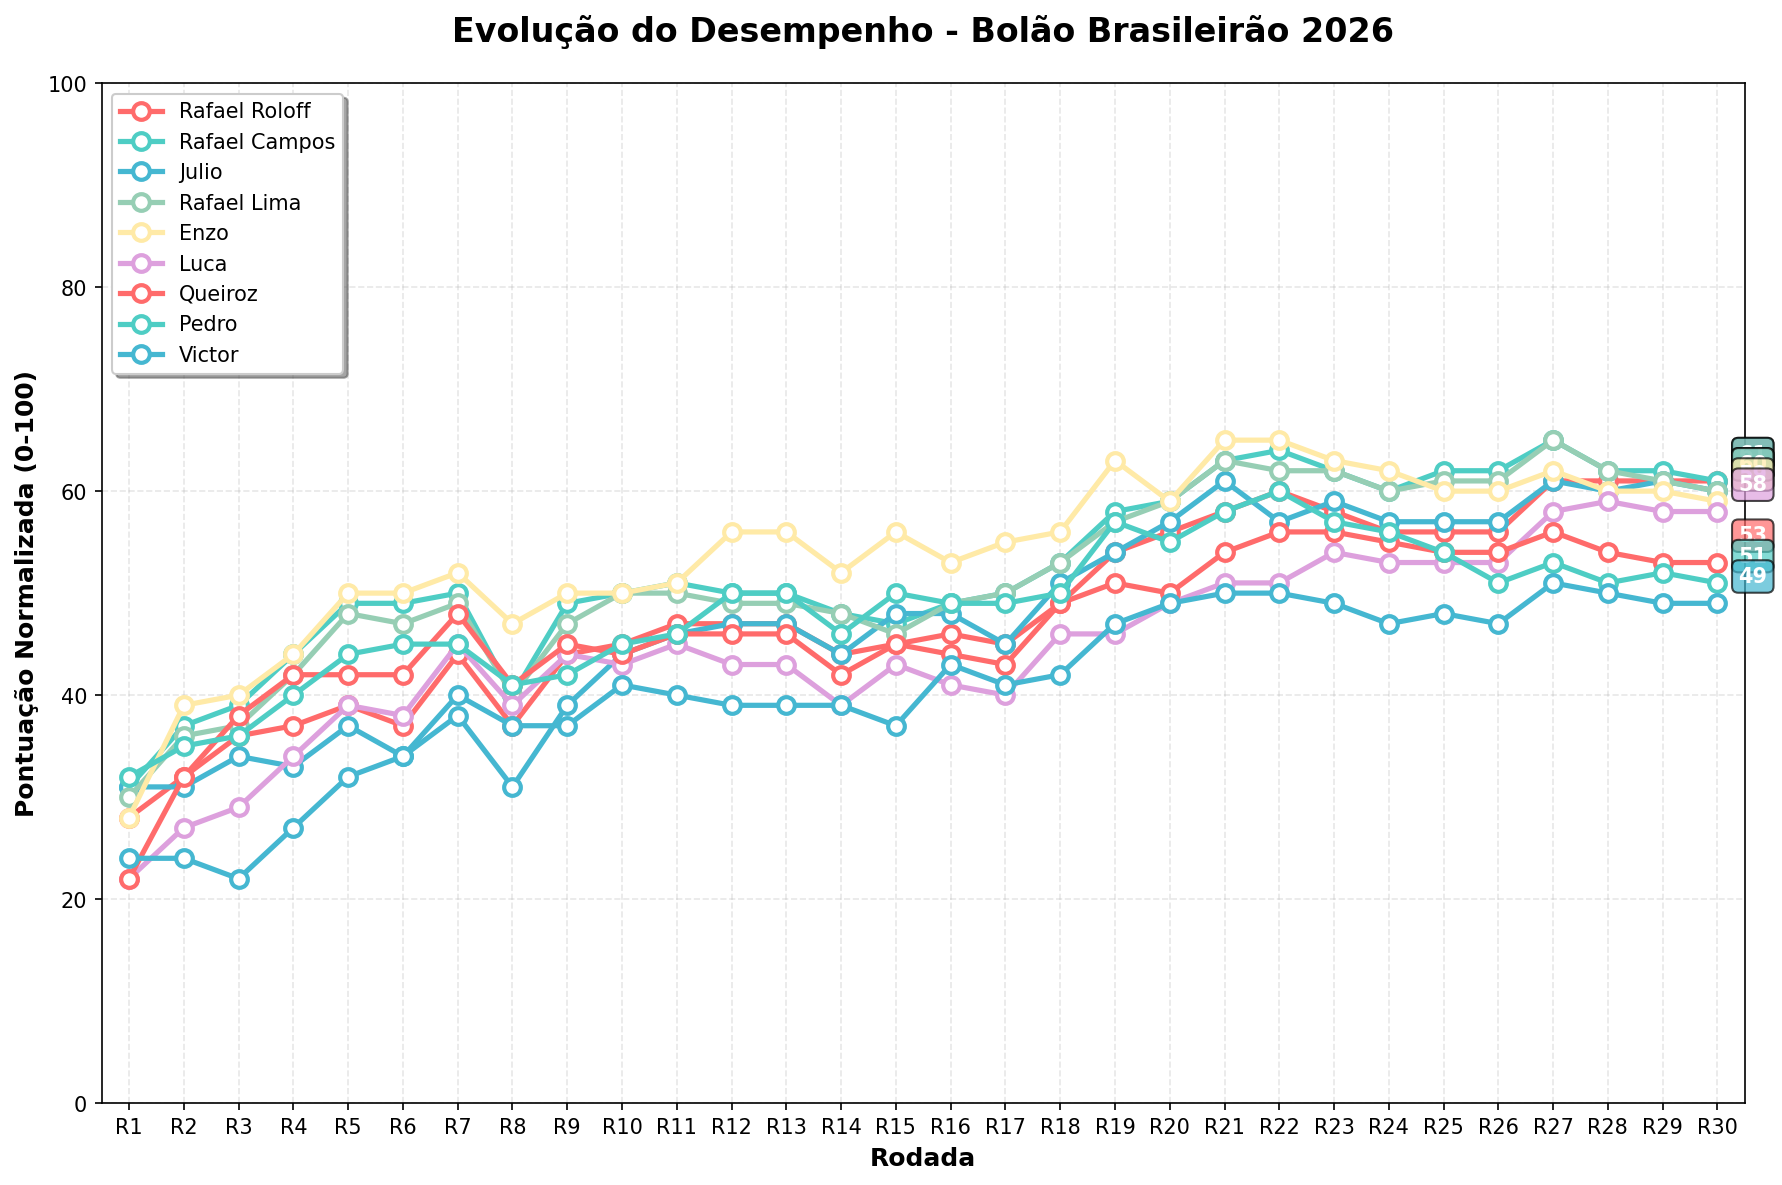
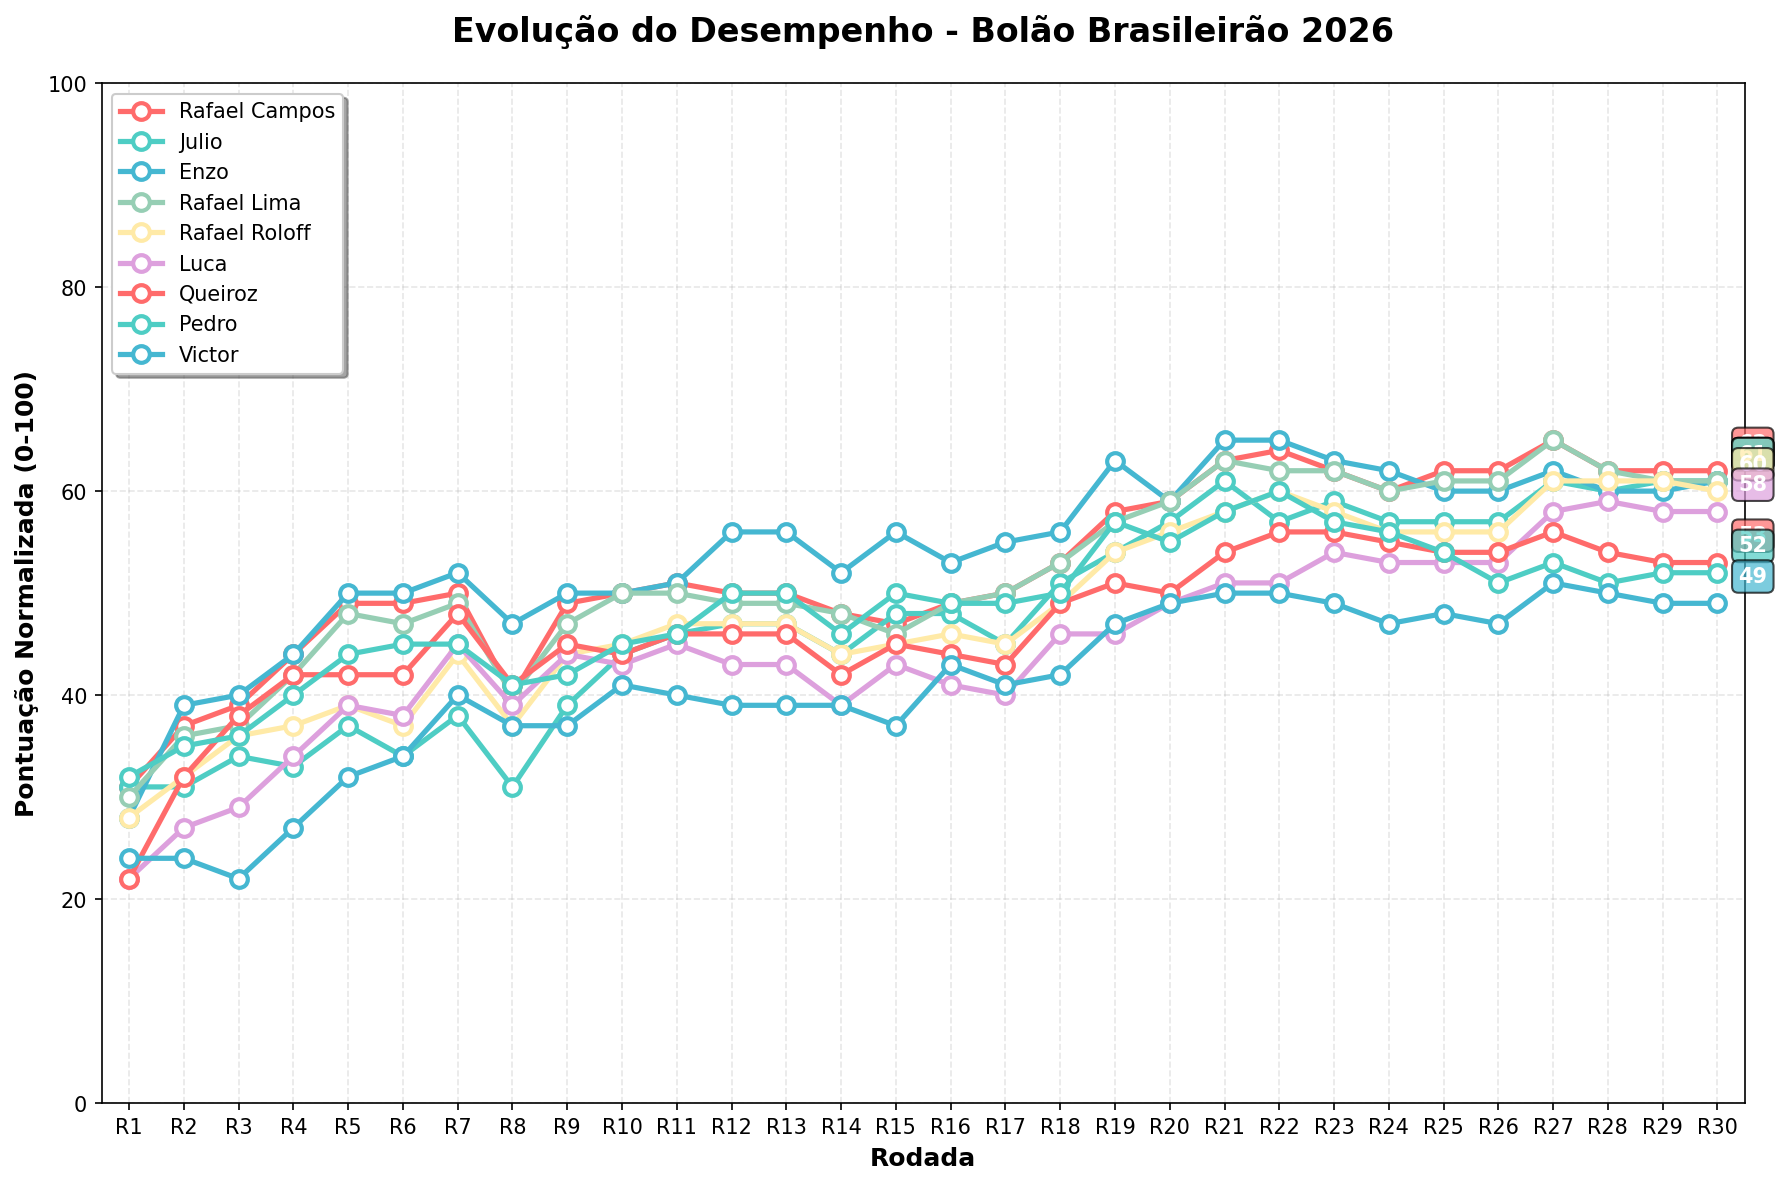
Atualizacao automatica - 13/10/2026 11:00:05,39

diff --git a/README.md b/README.md
@@ -2,70 +2,70 @@
 
 ## 🏆 Resultados Atuais
 
-**Última Atualização:** 2026-10-11 11:00:05
+**Última Atualização:** 2026-10-13 11:00:04
 
-| Time | Real | Rafael Roloff | Rafael Campos | Julio | Rafael Lima | Enzo | Luca | Queiroz | Pedro | Victor |
+| Time | Real | Rafael Campos | Julio | Enzo | Rafael Lima | Rafael Roloff | Luca | Queiroz | Pedro | Victor |
 |------|------|------|------|------|------|------|------|------|------|------|
 | Flamengo | 1 | 1°(20p) | 1°(20p) | 1°(20p) | 1°(20p) | 1°(20p) | 1°(20p) | 1°(20p) | 2°(19p) | 1°(20p) |
-| Palmeiras | 2 | 2°(20p) | 3°(19p) | 2°(20p) | 3°(19p) | 2°(20p) | 3°(19p) | 3°(19p) | 3°(19p) | 3°(19p) |
-| Fluminense | 3 | 8°(15p) | 7°(16p) | 7°(16p) | 6°(17p) | 4°(19p) | 8°(15p) | 7°(16p) | 4°(19p) | 10°(13p) |
-| Atlético-PR | 4 | 17°(7p) | 17°(7p) | 17°(7p) | 17°(7p) | 17°(7p) | 17°(7p) | 15°(9p) | 18°(6p) | 13°(11p) |
-| Cruzeiro | 5 | 3°(18p) | 2°(17p) | 3°(18p) | 2°(17p) | 3°(18p) | 2°(17p) | 2°(17p) | 1°(16p) | 7°(18p) |
-| Bahia | 6 | 6°(20p) | 4°(18p) | 5°(19p) | 4°(18p) | 5°(19p) | 5°(19p) | 4°(18p) | 7°(19p) | 9°(17p) |
-| Atlético-MG | 7 | 4°(17p) | 5°(18p) | 4°(17p) | 5°(18p) | 12°(15p) | 4°(17p) | 9°(18p) | 13°(14p) | 2°(15p) |
-| Santos | 8 | 9°(19p) | 13°(15p) | 12°(16p) | 12°(16p) | 11°(17p) | 7°(19p) | 13°(15p) | 11°(17p) | 11°(17p) |
-| São Paulo | 9 | 16°(13p) | 12°(17p) | 15°(14p) | 14°(15p) | 16°(13p) | 14°(15p) | 17°(12p) | 15°(14p) | 16°(13p) |
-| Coritiba | 10 | 14°(16p) | 16°(14p) | 19°(11p) | 16°(14p) | 15°(15p) | 20°(10p) | 12°(18p) | 19°(11p) | 20°(10p) |
-| Bragantino | 11 | 13°(18p) | 10°(19p) | 10°(19p) | 10°(19p) | 6°(15p) | 13°(18p) | 18°(13p) | 9°(18p) | 15°(16p) |
-| Vitória | 12 | 18°(14p) | 18°(14p) | 16°(16p) | 18°(14p) | 18°(14p) | 18°(14p) | 19°(13p) | 17°(15p) | 17°(15p) |
-| Botafogo | 13 | 7°(14p) | 9°(16p) | 6°(13p) | 8°(15p) | 10°(17p) | 11°(18p) | 11°(18p) | 5°(12p) | 5°(12p) |
-| Vasco | 14 | 11°(17p) | 14°(20p) | 11°(17p) | 15°(19p) | 9°(15p) | 9°(15p) | 10°(16p) | 10°(16p) | 12°(18p) |
-| Mirassol | 15 | 10°(15p) | 11°(16p) | 8°(13p) | 11°(16p) | 13°(18p) | 12°(17p) | 8°(13p) | 12°(17p) | 14°(19p) |
-| Corinthians | 16 | 5°(9p) | 8°(12p) | 9°(13p) | 9°(13p) | 8°(12p) | 10°(14p) | 6°(10p) | 8°(12p) | 8°(12p) |
-| Internacional | 17 | 15°(18p) | 15°(18p) | 14°(17p) | 13°(16p) | 14°(17p) | 15°(18p) | 14°(17p) | 14°(17p) | 6°(9p) |
-| Grêmio | 18 | 12°(14p) | 6°(8p) | 18°(20p) | 7°(9p) | 7°(9p) | 6°(8p) | 5°(7p) | 6°(8p) | 4°(6p) |
-| Remo | 19 | 20°(19p) | 20°(19p) | 13°(14p) | 20°(19p) | 20°(19p) | 16°(17p) | 16°(17p) | 16°(17p) | 19°(20p) |
-| Chapecoense | 20 | 19°(19p) | 19°(19p) | 20°(20p) | 19°(19p) | 19°(19p) | 19°(19p) | 20°(20p) | 20°(20p) | 18°(18p) |
-| **TOTAL** | | **325** | **325** | **323** | **323** | **321** | **319** | **309** | **306** | **301** |
+| Palmeiras | 2 | 3°(19p) | 2°(20p) | 2°(20p) | 3°(19p) | 2°(20p) | 3°(19p) | 3°(19p) | 3°(19p) | 3°(19p) |
+| Atlético-PR | 3 | 17°(6p) | 17°(6p) | 17°(6p) | 17°(6p) | 17°(6p) | 17°(6p) | 15°(8p) | 18°(5p) | 13°(10p) |
+| Fluminense | 4 | 7°(17p) | 7°(17p) | 4°(20p) | 6°(18p) | 8°(16p) | 8°(16p) | 7°(17p) | 4°(20p) | 10°(14p) |
+| Bahia | 5 | 4°(19p) | 5°(20p) | 5°(20p) | 4°(19p) | 6°(19p) | 5°(20p) | 4°(19p) | 7°(18p) | 9°(16p) |
+| Cruzeiro | 6 | 2°(16p) | 3°(17p) | 3°(17p) | 2°(16p) | 3°(17p) | 2°(16p) | 2°(16p) | 1°(15p) | 7°(19p) |
+| Atlético-MG | 7 | 5°(18p) | 4°(17p) | 12°(15p) | 5°(18p) | 4°(17p) | 4°(17p) | 9°(18p) | 13°(14p) | 2°(15p) |
+| Santos | 8 | 13°(15p) | 12°(16p) | 11°(17p) | 12°(16p) | 9°(19p) | 7°(19p) | 13°(15p) | 11°(17p) | 11°(17p) |
+| Bragantino | 9 | 10°(19p) | 10°(19p) | 6°(17p) | 10°(19p) | 13°(16p) | 13°(16p) | 18°(11p) | 9°(20p) | 15°(14p) |
+| São Paulo | 10 | 12°(18p) | 15°(15p) | 16°(14p) | 14°(16p) | 16°(14p) | 14°(16p) | 17°(13p) | 15°(15p) | 16°(14p) |
+| Coritiba | 11 | 16°(15p) | 19°(12p) | 15°(16p) | 16°(15p) | 14°(17p) | 20°(11p) | 12°(19p) | 19°(12p) | 20°(11p) |
+| Vitória | 12 | 18°(14p) | 16°(16p) | 18°(14p) | 18°(14p) | 18°(14p) | 18°(14p) | 19°(13p) | 17°(15p) | 17°(15p) |
+| Botafogo | 13 | 9°(16p) | 6°(13p) | 10°(17p) | 8°(15p) | 7°(14p) | 11°(18p) | 11°(18p) | 5°(12p) | 5°(12p) |
+| Vasco | 14 | 14°(20p) | 11°(17p) | 9°(15p) | 15°(19p) | 11°(17p) | 9°(15p) | 10°(16p) | 10°(16p) | 12°(18p) |
+| Mirassol | 15 | 11°(16p) | 8°(13p) | 13°(18p) | 11°(16p) | 10°(15p) | 12°(17p) | 8°(13p) | 12°(17p) | 14°(19p) |
+| Corinthians | 16 | 8°(12p) | 9°(13p) | 8°(12p) | 9°(13p) | 5°(9p) | 10°(14p) | 6°(10p) | 8°(12p) | 8°(12p) |
+| Internacional | 17 | 15°(18p) | 14°(17p) | 14°(17p) | 13°(16p) | 15°(18p) | 15°(18p) | 14°(17p) | 14°(17p) | 6°(9p) |
+| Grêmio | 18 | 6°(8p) | 18°(20p) | 7°(9p) | 7°(9p) | 12°(14p) | 6°(8p) | 5°(7p) | 6°(8p) | 4°(6p) |
+| Remo | 19 | 20°(19p) | 13°(14p) | 20°(19p) | 20°(19p) | 20°(19p) | 16°(17p) | 16°(17p) | 16°(17p) | 19°(20p) |
+| Chapecoense | 20 | 19°(19p) | 20°(20p) | 19°(19p) | 19°(19p) | 19°(19p) | 19°(19p) | 20°(20p) | 20°(20p) | 18°(18p) |
+| **TOTAL** | | **327** | **325** | **325** | **325** | **323** | **319** | **309** | **308** | **301** |
 
 ### 🏅 Classificação Atual (pontuação normalizada 0-100)
 
-🥇 **Rafael Roloff** (+3): 61 pontos<br>
-🥈 **Rafael Campos** (+3): 61 pontos<br>
-🥉 **Julio** (+3): 60 pontos<br>
-4. **Rafael Lima** (+3): 60 pontos<br>
-5. **Enzo** (+3): 59 pontos<br>
+🥇 **Rafael Campos** (+3): 62 pontos<br>
+🥈 **Julio** (+3): 61 pontos<br>
+🥉 **Enzo** (+3): 61 pontos<br>
+4. **Rafael Lima** (+3): 61 pontos<br>
+5. **Rafael Roloff** (+3): 60 pontos<br>
 6. **Luca** (+3): 58 pontos<br>
 7. **Queiroz** (+3): 53 pontos<br>
-8. **Pedro**: 51 pontos<br>
+8. **Pedro**: 52 pontos<br>
 9. **Victor** (+3): 49 pontos<br>
 
 ### 📈 Histórico de Desempenho
 
 ![Gráfico de Performance](performance_chart.png)
 
-| Rodada | Rafael Roloff | Rafael Campos | Julio | Rafael Lima | Enzo | Luca | Queiroz | Pedro | Victor |
+| Rodada | Rafael Campos | Julio | Enzo | Rafael Lima | Rafael Roloff | Luca | Queiroz | Pedro | Victor |
 |-------|-------|-------|-------|-------|-------|-------|-------|-------|-------|
-| R21 | 58 | 63 | 61 | 63 | 65 | 51 | 54 | 58 | 50 |
-| R22 | 60 | 64 | 57 | 62 | 65 | 51 | 56 | 60 | 50 |
-| R23 | 58 | 62 | 59 | 62 | 63 | 54 | 56 | 57 | 49 |
-| R24 | 56 | 60 | 57 | 60 | 62 | 53 | 55 | 56 | 47 |
-| R25 | 56 | 62 | 57 | 61 | 60 | 53 | 54 | 54 | 48 |
-| R26 | 56 | 62 | 57 | 61 | 60 | 53 | 54 | 51 | 47 |
-| R27 | 61 | 65 | 61 | 65 | 62 | 58 | 56 | 53 | 51 |
-| R28 | 61 | 62 | 60 | 62 | 60 | 59 | 54 | 51 | 50 |
-| R29 | 61 | 62 | 61 | 61 | 60 | 58 | 53 | 52 | 49 |
-| R30 | 61 | 61 | 60 | 60 | 59 | 58 | 53 | 51 | 49 |
+| R21 | 63 | 61 | 65 | 63 | 58 | 51 | 54 | 58 | 50 |
+| R22 | 64 | 57 | 65 | 62 | 60 | 51 | 56 | 60 | 50 |
+| R23 | 62 | 59 | 63 | 62 | 58 | 54 | 56 | 57 | 49 |
+| R24 | 60 | 57 | 62 | 60 | 56 | 53 | 55 | 56 | 47 |
+| R25 | 62 | 57 | 60 | 61 | 56 | 53 | 54 | 54 | 48 |
+| R26 | 62 | 57 | 60 | 61 | 56 | 53 | 54 | 51 | 47 |
+| R27 | 65 | 61 | 62 | 65 | 61 | 58 | 56 | 53 | 51 |
+| R28 | 62 | 60 | 60 | 62 | 61 | 59 | 54 | 51 | 50 |
+| R29 | 62 | 61 | 60 | 61 | 61 | 58 | 53 | 52 | 49 |
+| R30 | 62 | 61 | 61 | 61 | 60 | 58 | 53 | 52 | 49 |
 
 **Tendência (últimas 2 medições):**
-- **Rafael Roloff**: ➡ =0
-- **Rafael Campos**: 📉 -1
-- **Julio**: 📉 -1
-- **Rafael Lima**: 📉 -1
-- **Enzo**: 📉 -1
+- **Rafael Campos**: ➡ =0
+- **Julio**: ➡ =0
+- **Enzo**: 📈 +1
+- **Rafael Lima**: ➡ =0
+- **Rafael Roloff**: 📉 -1
 - **Luca**: ➡ =0
 - **Queiroz**: ➡ =0
-- **Pedro**: 📉 -1
+- **Pedro**: ➡ =0
 - **Victor**: ➡ =0
 
 ## 🎯 Sistema de Pontuação
